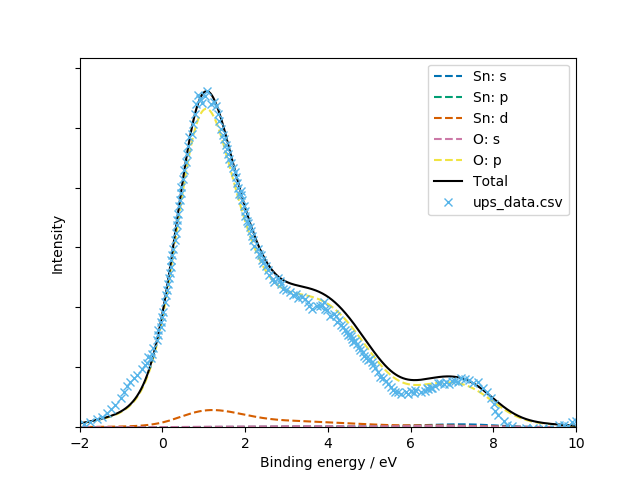
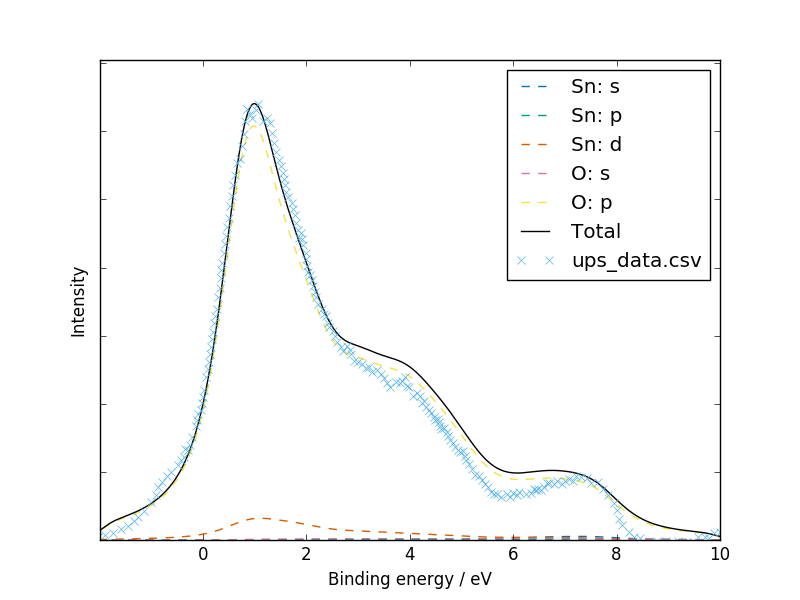
DOC: update tutorial plots for new broadening values

diff --git a/docs/source/tutorials.rst b/docs/source/tutorials.rst
@@ -146,7 +146,7 @@ exchange-correlation functional.
 .. code-block:: bash
 
      galore test/MgO/MgO_Mg_dos.dat test/MgO/MgO_O_dos.dat \
-       --plot --pdos -g 0.2 -l 0.2 --ylabel DOS --units eV
+       --plot --pdos -g 0.5 -l 0.2 --ylabel DOS --units eV
 
 .. image:: figures/mgo_pdos_quick.png
            :alt: Quick PDOS plot for MgO
@@ -210,10 +210,10 @@ We have digitised the experimental data plotted in Fig.3 of
 `Farahani et al. (2014) <https://doi.org/10.1103/PhysRevB.90.155413>`__
 in order to aid a direct comparison::
 
-  galore test/SnO2/vasprun.xml.gz --plot -g 0.3 -l 0.4 \
+  galore test/SnO2/vasprun.xml.gz --plot -g 0.5 -l 0.4 \
     --pdos --w XPS --flipx --xmin -2 --xmax 10 \
     --overlay test/SnO2/xps_data.csv  --overlay_offset -4 \
-    --overlay_scale 9 --units ev --ylabel Intensity
+    --overlay_scale 3.5 --units ev --ylabel Intensity
 
 (Note that here the shorter alias ``-w`` is used for the XPS
 weighting.) The general character and peak positions match well, but
@@ -242,7 +242,7 @@ satisfactory fit is obtained for the three main peaks, but the "bump" below
 zero suggests the presence of some phenomenon in the bandgap which was
 not captured by the *ab initio* calculation::
 
-  galore test/SnO2/vasprun.xml.gz --plot -g 0.5 -l 0.7 \
+  galore test/SnO2/vasprun.xml.gz --plot -g 0.5 -l 0.9 \
     --pdos --w ups --flipx --xmin -2 --xmax 10 \
     --overlay test/SnO2/ups_data.csv --overlay_offset 0.44 \
     --units ev --ylabel Intensity --overlay_style x    
